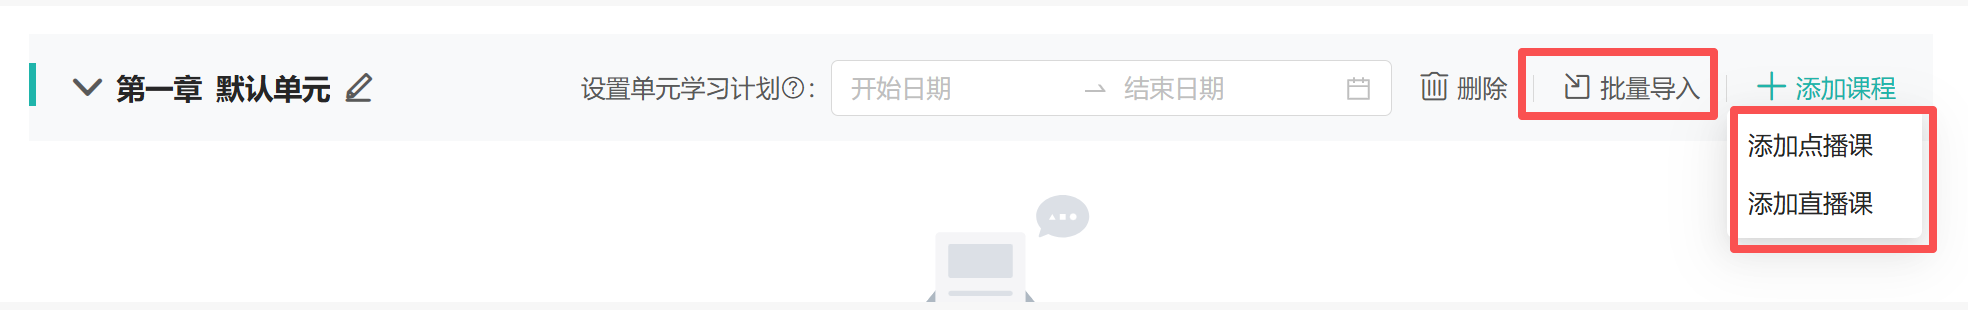
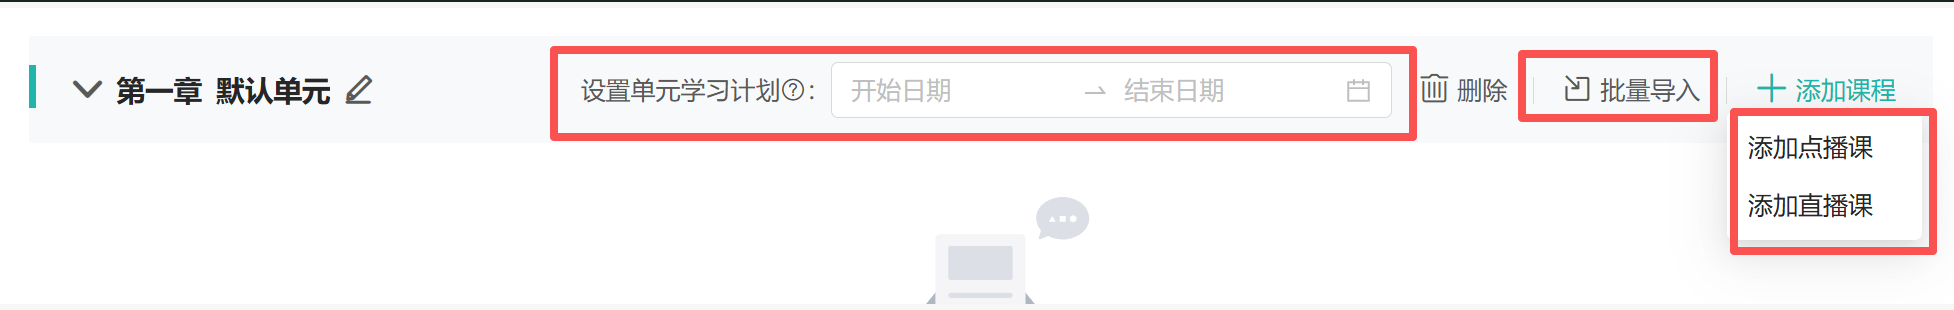
Replace jiaowu schedule unit diff shot with 排课-单元1 and note removing unit plan.
Use a new asset filename and cache bust so the drawer picks up the update.

diff --git a/prototype/index.html b/prototype/index.html
@@ -4,8 +4,8 @@
     <meta charset="UTF-8" />
     <meta name="viewport" content="width=device-width, initial-scale=1.0" />
     <title>校本课 · 原型框架 V0.8.5</title>
-    <link rel="stylesheet" href="./css/style.css?v=085-pad-c-resume" />
-    <link rel="stylesheet" href="./css/teacher-lib.css?v=085-no-unit-plan" />
+    <link rel="stylesheet" href="./css/style.css?v=085-jw-unit1c" />
+    <link rel="stylesheet" href="./css/teacher-lib.css?v=085-jw-unit1c" />
   </head>
   <body data-terminal="pc">
     <!-- 原型控制条：PC / PAD 终端切换 -->
@@ -2213,6 +2213,6 @@
       </section>
     </main>
 
-    <script src="./js/app.js?v=085-pad-c-stamp2"></script>
+    <script src="./js/app.js?v=085-jw-unit1c"></script>
   </body>
 </html>

diff --git a/prototype/js/app.js b/prototype/js/app.js
@@ -1945,9 +1945,13 @@
         },
         {
           id: "pc-jw-unit",
-          src: "./assets/ref/pc-jiaowu-schedule-unit.png",
-          caption: "原排课-单元",
+          src: "./assets/ref/pc-jiaowu-schedule-unit1.png?v=20261022",
+          caption: "原排课-单元1",
           changes: [
+            {
+              text: "去掉【设置单元学习计划】字段；",
+              kind: "remove",
+            },
             {
               text: "去掉批量导入功能，原因是原批量导入功能主要是导入课程名称。",
               kind: "remove",
